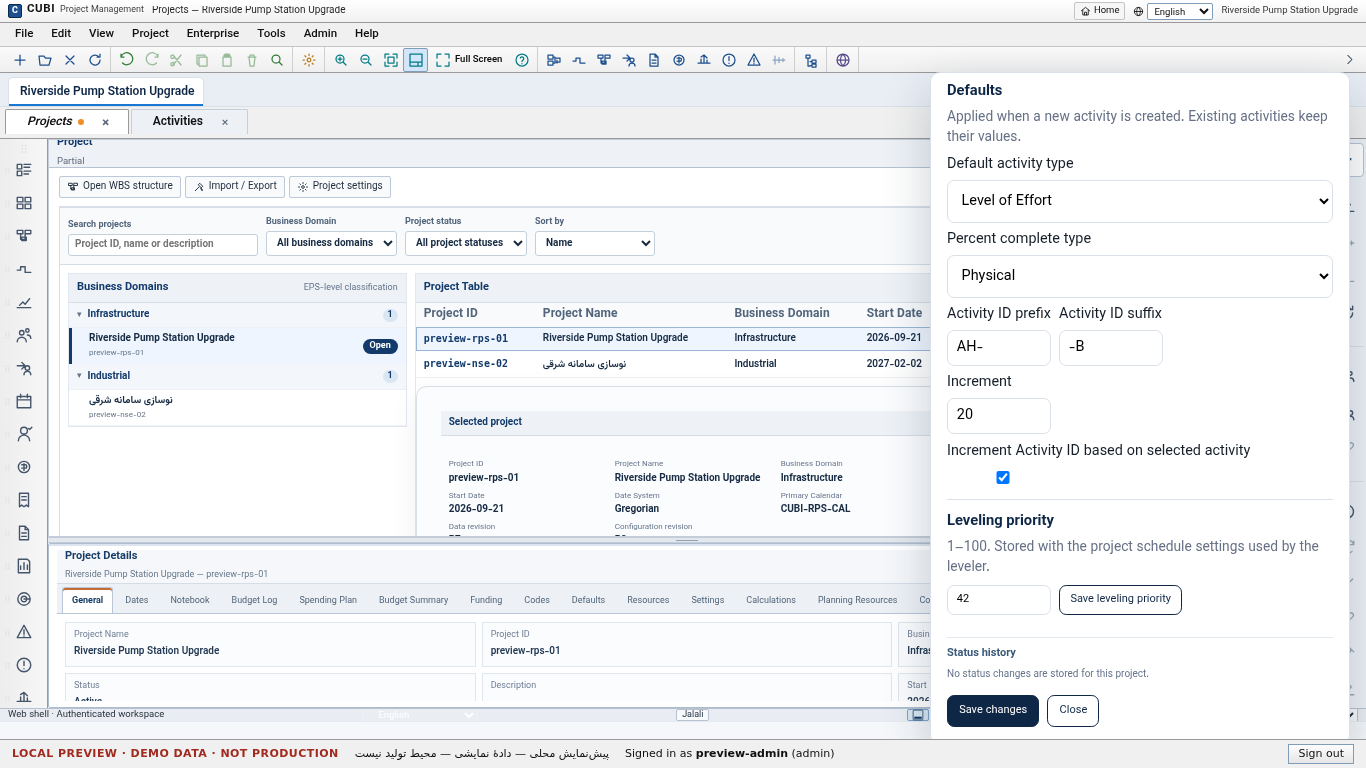
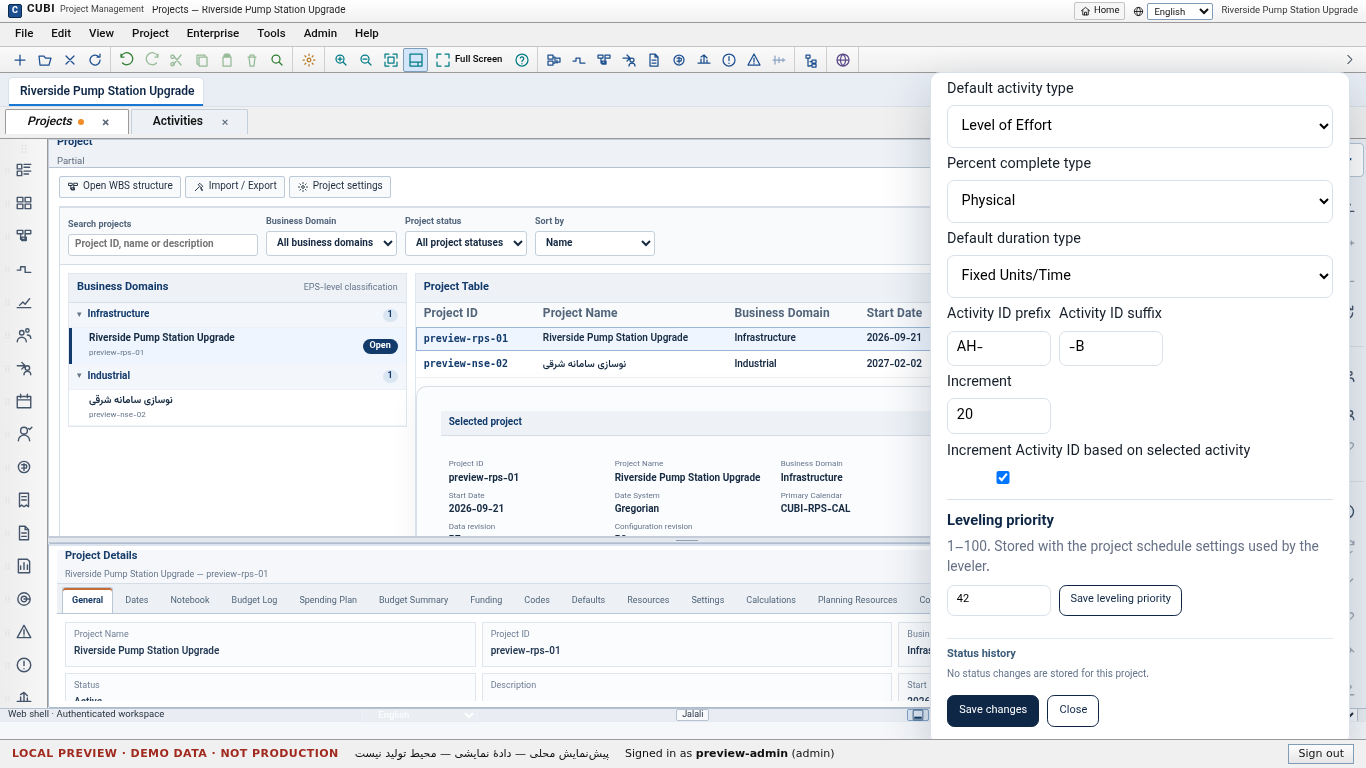
test(evidence): record the default duration type browser run at ae6d2116

Changed region(s): [[0.6764, 0.0938, 0.9839, 0.2188], [0.7072, 0.25, 0.7994, 0.375], [0.6764, 0.8438, 0.7379, 0.875]]

diff --git a/docs/workspace/architecture/v26-window-traceability-and-acceptance-matrix.md b/docs/workspace/architecture/v26-window-traceability-and-acceptance-matrix.md
@@ -64,7 +64,7 @@ The source-page column identifies the section or chapter in the Version 26 HTML 
 | WBS-002 | WBS details, status and weighted milestones | Help: WBS Details / Status / Weighted Milestones | WBS Details | Field registry and roll-up tests | WIRED_WRITE (status Planned/Active/Inactive/What-If and the percent-complete technique Activities/WBS Milestones are persisted on the WBS master and edited from the General tab; the WBS Milestones tab lists, edits and saves weighted milestones through `PUT /p6/wbs/{id}/milestones` with a revision guard; the roll-up is completed weight ÷ total weight, verified 75% and 83.33% against the persisted record and the workspace read; see §2.1) |
 | WBS-003 | WBS copy/cut/paste/delete protections | Help: Copy/Cut and Paste a WBS Element; Delete a WBS Element | WBS window toolbar | Child/activity reference protection and undo/audit | WIRED_WRITE (Copy duplicates a persisted subtree beneath the selected element through `POST /p6/wbs/{id}/copy`, including codes, names, sequence, status, technique and weighted milestones, never activities; Cut pastes by moving the same record so activity assignments stay attached; a paste into a descendant is rejected as `WBS_HIERARCHY_CYCLE`; deleting a node with children or activities states the V26 precondition instead of the code; see §2.1) |
 | PRJ-001 | Authorized project register and hierarchy | Help: Projects / Add a project to the EPS hierarchy | Projects window | Authorization, tree, multi-project selection and filters | WIRED_WRITE (the register renders exactly the persisted tenant-scoped project list with a Business Domain hierarchy, search, domain filter, project-status filter with present-value counts, sort, selection preview without opening, keyboard selection, collapse, empty/loading/no-match states and the existing create/settings writes; the table now shows the stored Status in its own cell with Open as a separate column, so filtering by Planned/Active/Inactive/What-If narrows both the tree and the table and Clear filters resets all three filters; a project is classified by `business_domain` on the single existing project model, and PATCH preserves the value when the field is omitted; 48/48 browser checks at `f5dcafef`, re-run 48/48 at `95dead66`; multi-level EPS nodes, OBS and project-code hierarchy remain absent; see §2.1) |
-| PRJ-002 | Project Details and defaults | Help: Project Details / Working with EPS / Defaults tab | Projects Details | Field-by-field persistence and defaults application | WIRED_WRITE (General tab persists name, description, start date, date system, Business Domain and primary calendar behind the settings revision; the OBS responsible manager and web-site are stored project columns with normalization and an absolute http/https URL check that rejects credentials; leveling priority 1–100 writes through the single canonical `p6-project-schedule-settings-api.v1` record revision; checkout is an exclusive stored lease enforced by conditional SQL in SQLite and PostgreSQL, so another user's metadata/status save returns 409 and check-in is owner-only; the Defaults tab stores default activity type, percent complete type, Activity ID prefix/suffix/increment and the based-on-selected flag, and `POST …/p6/activities` inherits both enum defaults only when the client omits them while an explicit value wins; the create drawer prefills type, percent complete and a suggested ID computed by the pure `computeNextActivityId` helper; denied writes show the localized permission message; 8/8 project-details scenarios at `95dead66` in en 1366×768, viewer 1366×768 and fa RTL 1280×720, including persistence, reload, create-from-defaults and Persian label checks; remaining: Duration Type and Cost Account defaults are not stored, the enterprise OBS hierarchy is still a stored string, and defaults are not yet audited; canonical schedule-settings writes now reject another user's write while the project is checked out with `409 PROJECT_CHECKED_OUT_BY_OTHER`; see §2.1) |
+| PRJ-002 | Project Details and defaults | Help: Project Details / Working with EPS / Defaults tab | Projects Details | Field-by-field persistence and defaults application | WIRED_WRITE (General tab persists name, description, start date, date system, Business Domain and primary calendar behind the settings revision; the OBS responsible manager and web-site are stored project columns with normalization and an absolute http/https URL check that rejects credentials; leveling priority 1–100 writes through the single canonical `p6-project-schedule-settings-api.v1` record revision; checkout is an exclusive stored lease enforced by conditional SQL in SQLite and PostgreSQL, so another user's metadata/status save returns 409 and check-in is owner-only; the Defaults tab stores default activity type, percent complete type, default duration type (all four V26 values), Activity ID prefix/suffix/increment and the based-on-selected flag, and `POST …/p6/activities` inherits those three enum defaults only when the client omits them while an explicit value wins; the duration type is a real persisted `activity_master` column (SQLite and PostgreSQL) validated on write and reloaded through the API; the create drawer prefills type, percent complete and a suggested ID computed by the pure `computeNextActivityId` helper; denied writes show the localized permission message; 9/9 project-details scenarios at `ae6d2116` in en 1366×768, viewer 1366×768 and fa RTL 1280×720, including persistence, reload, create-from-defaults and Persian label checks; remaining: the Cost Account default, the enterprise OBS hierarchy (still a stored string) and the audited defaults history; canonical schedule-settings writes now reject another user's write while the project is checked out with `409 PROJECT_CHECKED_OUT_BY_OTHER`; see §2.1) |
 | PRJ-003 | Project open/close/switch and tab lifecycle | Help: Open a project / Single-project mode versus multiproject mode | Workspace and Projects | Project switch, dirty state, revisions and active tabs | WIRED_WRITE (a project tab strip holds every project the session opened, one active tab, no close on the last; each switch re-authorizes through `POST /api/projects/{id}/open` and re-reads the session list; each tab owns its desktop window set; unsaved edits require confirmation before switch or active close, and a project transition removes the previous settings overlay; reload restores the set and active project; exclusive/shared access modes and cross-project integrated views are absent; see §2.1) |
 | REL-001 | Relationship create/edit/delete and predecessor/successor views | Help: Linking Activities with Relationships | Activity Details and relationship view | Endpoint, type, lag, calendar and revision tests | WIRED_WRITE (Logic / Relationships panel: every persisted row with pair, type, lag and record revision, create for FS/SS/FF/SF with lag, revision-guarded edit, confirmation-guarded delete, a visible notice for a self-link or duplicate instead of a silent no-op, reload persistence, the Activity Details Predecessors and Successors views reading the same records, and a viewer denial on write; 11/11 browser scenarios at `cdf27afb`; see §2.1) |
 | RES-001 | Resource hierarchy/register/details | Help: Defining Resources | Resources window | Resource types, hierarchy, codes and persistence | WIRED_WRITE (master, hierarchy and revision-guarded editor; see §2.1) |
@@ -110,6 +110,7 @@ The source-page column identifies the section or chapter in the Version 26 HTML 
 
 | Date | ID | New status | Evidence |
 |---|---|---|---|
+| 2026-11-14 | PRJ-002 (stored default duration type) | WIRED_WRITE | Code `ae6d2116`, evidence bundle `docs/workspace/evidence/project-details-v26-2026-11-14/` (`report.json` records `testedCodeSha`/`gitHead` `ae6d211668c063096a163b1f1b4e0ec61d1870f5`, 9/9 scenarios, 12 screenshots, zero exceptions/console errors/API failures). **Stored contract:** `ActivityMaster` gains `duration_type` with the four V26 values (Fixed Units/Time, Fixed Duration & Units/Time, Fixed Units, Fixed Duration & Units) validated by `ActivityDurationType`; both activity repositories persist it (`activity_master.duration_type`, in-place SQLite migration and `ADD COLUMN IF NOT EXISTS` for PostgreSQL, existing rows default to Fixed Duration & Units), and the activity master DTO returns it. `ProjectSummary` gains `default_duration_type` normalized by `normalize_default_duration_type` (`PROJECT_DEFAULT_DURATION_TYPE_INVALID`) and stored by the preview SQLite database and the PostgreSQL lifecycle repository. `POST …/p6/activities` copies the project default only when the request omits `duration_type`; an explicit value wins and PATCH edits that activity independently. Changing a project default never rewrites stored activities. **UI:** the Defaults tab edits and saves the default, the create drawer prefills it, the inline editor edits it, and the read model (`activity.duration_type`) plus the Defaults details tab display it, in en/fa with the four localized labels. **Tests:** repository round trip, independent update and legacy-table migration; activity HTTP create inheritance, explicit override, PATCH persistence and invalid-value rejection; project service/HTTP/PostgreSQL/preview-store default persistence and validation; web test for the create-form field. Python 4235 passed / 190 skipped, web 1147 + 14 passed, `tsc` and `npm run build` clean; browser scenario `02b` stores `Fixed Units/Time`, reads it back from the project and activity APIs, survives a full reload, prefills the create drawer and stores a created activity with that value. |
 | 2026-11-14 | PRJ-002 (checkout lease on canonical schedule settings) | WIRED_WRITE | Code `91991e71`, evidence bundle `docs/workspace/evidence/project-details-v26-2026-11-14/` (`report.json` records `testedCodeSha`/`gitHead` `91991e71`, 9/9 scenarios, 12 screenshots, zero exceptions/console errors/API 5xx). `P6ScheduleSnapshotPublicationAPI.save_settings` now reads the stored exclusive checkout holder for the exact scope through an optional `ProjectCheckoutLease` and rejects a different `auth_context.user_id` with `PROJECT_CHECKED_OUT_BY_OTHER` before calendar validation or persistence; the route returns `409` with the checkout-conflict message key. The preview reads the lease from the same `preview_project` row used by checkout, and `saveLeveling` shows the localized conflict and reloads the stored settings. Scenario `04b` proves the owner saves priority `44` while checked out, a Planner write for `45` is rejected with `409 PROJECT_CHECKED_OUT_BY_OTHER`, the stored priority and record revision stay at `44`/unchanged, and the owner then checks in. New unit tests cover another user, the owner, an unleased project and a runtime without a lease reader; the preview storage test covers the holder read. Python 4233 passed / 190 skipped, web 1147 + 14 passed, `tsc --noEmit` and `npm run build` clean. |
 | 2026-11-14 | PRO-002 (stored period performance; Apply Actuals missing) | WIRED_WRITE / MISSING | Code `fd9d52b2`, evidence bundle `docs/workspace/evidence/progress-history-v26-2026-11-14/` (`report.json` records contract `cubi-progress-history-v26.v2`, `testedCodeSha` `fd9d52b2`/`gitHead` `fd9d52b2664402c3a57a3c09e49917d7642f59a7`, 8/8 scenarios, 7 screenshots, zero exceptions/console errors/API 5xx). The Progress window now renders a **Stored Period Performance** section backed by the existing immutable `p6-activity-period-actual-api.v1`: it reads `GET /api/projects/{id}/p6/financial-periods` and `GET /api/projects/{id}/p6/activity-period-actuals?activity_id=&period_id=` and posts the exact `{contract_version,actual_id,activity_id,period_id,actual_units,actual_cost,unit,currency,note}` payload with the deterministic identity `SPP-<activity>-<period>`. Decimal units/cost are validated in the page (at least one value required); storage, identity and immutability stay server-authoritative. The route now parses GET filters from the query string (previously only the body), rejects a dangling activity or financial period with 404, and maps `IMMUTABLE_ACTIVITY_PERIOD_ACTUAL`/`REVISION_CONFLICT` to 409 instead of a generic 400. Replaying the identical payload is idempotent; a different value for the same activity + period is rejected and never overwrites, and the UI says so in English and Persian. Wiring: `P6ActivityPeriodActualAPI` is mounted in the local preview runtime and accepted by `production_composition`. Browser proof: a real financial period (`2026-09`), `3.125 h / 20.50 USD` read back through the list API after reload, the immutable rejection on a changed value, and the Persian RTL layout at 1280×720. Tests at the same code: 1147 `tsx` + 14 `node --test` pass, `tsc --noEmit` and `npm run build` clean, Python 4228 passed / 190 skipped, period-actual route/API tests 7 passed. **Apply Actuals remains `MISSING`:** there is no route or service for a data date, progress estimation/recalculation, activity scope or period reconciliation, and this change does not invent one; the Progress window does not recalculate dates, remaining work or cost. |
 | 2026-11-14 | UTIL-001 (Global Change audit) | MISSING | Code `a63c34f8` (audit only; no implementation change). A source and browser sweep found **no** Global Change window, condition builder, evaluator, preview, apply or run-history route and no `global-change`/bulk-update module in `src/construction_pm`; `docs/workspace/architecture/workspace-dialog-inventory.md` records the dialog as `Missing` and `p6_code_reference.py` (TOOLS-001) already states that no verified safe evaluator or transaction path exists. The only authoritative mutation is the per-activity `PATCH /api/projects/{id}/p6/activities/{activity_id}` (`P6ActivityMasterAPI.update`) with a required record `expected_revision` and `PROJECT_WRITE`; it does not advance the project revision, so a client-side loop of per-row writes would be non-atomic, unaudited and would evaluate changes in the browser. No such loop and no localStorage substitute were added, and `Tools > Global Change` is not exposed as a fake window. The requested `p6-global-change-api.v1` contract (typed activities-only filter/assignment whitelist with `all`/`any`, no expression language, project-revision-bound single-use preview token, server-computed before/after and counts, all-or-nothing apply, once-only project revision advance, idempotency key, immutable `GCH-<n>` runs with per-activity revisions, failure codes and Agent 3 acceptance tests including a 250-activity fixture) is specified in `docs/workspace/architecture/p6-global-change-contract-request.md`. Status is `MISSING` because nothing can be exercised end to end; it becomes `WIRED_WRITE` only after the service and window ship. |

diff --git a/docs/governance/PROJECT_STATE_LEDGER.md b/docs/governance/PROJECT_STATE_LEDGER.md
@@ -1060,3 +1060,12 @@ The CI results prove the tested code paths, not live deployment or full V1 accep
 - **Wiring:** the preview lease reader reads the same `preview_project` row as the checkout endpoint; the Project Details leveling control shows the localized conflict and reloads the stored settings.
 - **Evidence:** `docs/workspace/evidence/project-details-v26-2026-11-14/` — `testedCodeSha` `91991e71`, 9/9 scenarios, 12 screenshots, zero exceptions/console errors/API 5xx. Scenario `04b`: owner saves priority 44 while checked out; Planner write for 45 returns `409 PROJECT_CHECKED_OUT_BY_OTHER` and leaves priority and record revision untouched; owner checks in. Python 4233 passed / 190 skipped, web 1147 + 14 passed, `tsc --noEmit` and build clean.
 - **Remaining:** the lease is not consulted by activity, WBS or relationship writes; Duration Type and Cost Account defaults, an enterprise OBS hierarchy and an audited defaults history remain open.
+
+## PRJ-002 stored default duration type — 2026-11-14
+
+- **Shipped (`ae6d2116`):** `ActivityMaster.duration_type` now stores the four V26 Duration Type values (`Fixed Units/Time`, `Fixed Duration & Units/Time`, `Fixed Units`, `Fixed Duration & Units`) through the `ActivityDurationType` enum. Both activity repositories persist the new `activity_master.duration_type` column with an in-place SQLite migration and PostgreSQL `ADD COLUMN IF NOT EXISTS`; existing rows decode to `Fixed Duration & Units`. The activity master DTO returns the stored value on create, read, list and PATCH.
+- **Project default:** `ProjectSummary.default_duration_type` is normalized by `normalize_default_duration_type` (`PROJECT_DEFAULT_DURATION_TYPE_INVALID`), stored by the preview SQLite store and `PostgresProjectRepository`, and saved under the settings revision. `POST …/p6/activities` copies it only when the request omits the field; an explicit value wins, PATCH edits one activity, and changing a project default never rewrites stored activities.
+- **UI:** the Project Details Defaults tab edits and saves the default with en/fa labels; the activity create drawer prefills it, the inline activity editor changes it, and the read model (`activity.duration_type`) plus the Defaults details tab display it. No browser-side scheduling or duration math was added.
+- **Tests at the same code:** repository round trip/independent update/legacy migration; activity HTTP inheritance, explicit override, PATCH persistence and invalid-value rejection; project service/HTTP/PostgreSQL/preview-store persistence and validation; web create-form field. Python 4235 passed / 190 skipped, web 1147 + 14 passed, `tsc` and `npm run build` clean.
+- **Browser evidence:** `docs/workspace/evidence/project-details-v26-2026-11-14/` — `testedCodeSha`/`gitHead` `ae6d2116`, 9/9 scenarios, 12 screenshots, zero exceptions/console errors/API failures. Scenario `02b` saves `Fixed Units/Time`, reads it back from the project API, survives a full reload, prefills the create drawer, creates an activity and reads its stored duration type back.
+- **Remaining:** the default Cost Account, the audited defaults history and the enterprise OBS hierarchy are still open. The checkout lease is not yet consulted by activity, WBS or relationship writes. Cost Account selection needs the real hierarchy before it can be stored.

diff --git a/docs/qa/CUBI_V26_EXECUTION_CHECKPOINT.md b/docs/qa/CUBI_V26_EXECUTION_CHECKPOINT.md
@@ -3907,6 +3907,29 @@ and [Filter by project status](https://docs.oracle.com/cd/G48902_01/client_help/
   untouched; the owner then checks in. Python 4233 passed / 190 skipped, web
   1147 + 14 passed, typecheck and build clean at the same code.
 
+### PRJ-002 stored default duration type — 2026-11-14 (`ae6d2116`)
+
+- `ActivityMaster` gains the four V26 Duration Type values, persisted by both
+  activity repositories in `activity_master.duration_type` with an in-place
+  SQLite migration and a PostgreSQL `ADD COLUMN IF NOT EXISTS`; existing rows
+  decode to `Fixed Duration & Units`. The activity master API returns the
+  stored value on create, read, list and PATCH.
+- `ProjectSummary.default_duration_type` stores the project default behind the
+  settings revision (`PROJECT_DEFAULT_DURATION_TYPE_INVALID`), and
+  `POST …/p6/activities` copies it only when the request omits the field. An
+  explicit value wins, PATCH edits one activity, and changing the default never
+  rewrites stored activities.
+- The Defaults tab edits and saves the default; the create drawer prefills it,
+  the inline editor changes it, and the read model plus the Defaults details
+  tab display it, in en/fa. No scheduling or duration math runs in the browser.
+- Evidence: `docs/workspace/evidence/project-details-v26-2026-11-14/`
+  (`testedCodeSha`/`gitHead` `ae6d211668c063096a163b1f1b4e0ec61d1870f5`, 9/9
+  scenarios, 12 screenshots, zero exceptions/console errors/API failures);
+  scenario `02b` stores `Fixed Units/Time`, reads it back from the project and
+  activity APIs, survives a reload, prefills the create drawer and stores a
+  created activity with that value. Python 4235 passed / 190 skipped, web 1147
+  + 14 passed, typecheck and build clean.
+
 ### Remaining PRJ-002 / window gaps
 
 - The enterprise OBS hierarchy still does not exist; the responsible manager is
@@ -3916,11 +3939,10 @@ and [Filter by project status](https://docs.oracle.com/cd/G48902_01/client_help/
   project is checked out (`409 PROJECT_CHECKED_OUT_BY_OTHER`); metadata and
   status writes already did. The lease is still not consulted by activity,
   WBS or relationship writes.
-- The Defaults tab now stores activity type, percent complete type and the
-  Activity ID numbering fields. Duration Type, Cost Account and the calendar
-  default are still absent (no validated Activity/Cost Account field; the
-  project primary calendar already exists), and defaults changes are not an
-  audited history.
+- The Defaults tab now stores activity type, percent complete type, duration
+  type and the Activity ID numbering fields. The default Cost Account and an
+  audited defaults history are still absent; storing a Cost Account requires
+  the real hierarchy (Agent 3 contract) rather than a static list.
 - Project status filtering/portfolios, audited defaults application, and the
   remaining Project Register/Details tab behaviors (default settings beyond
   this slice, project properties) remain open.
